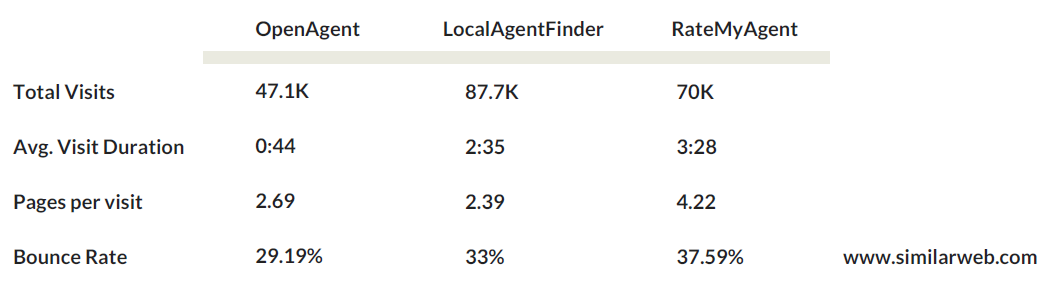
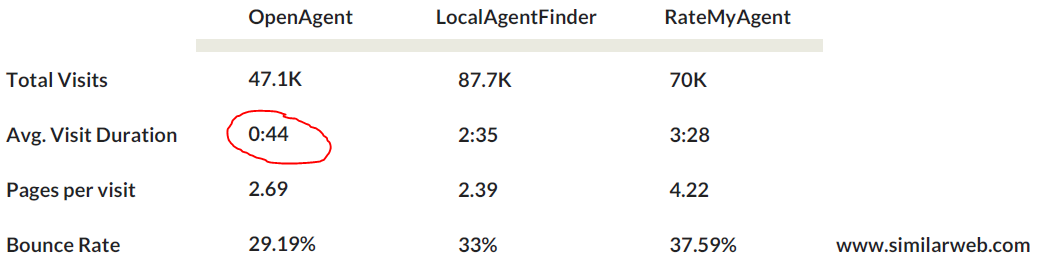
nikeipt

diff --git a/css/main.css b/css/main.css
@@ -4,7 +4,7 @@
 
 body {
   font-family: 'Cardo', 'Times New Roman', serif;
-  font-size: 18px;
+  font-size: 20px;
   color: #404040;
   position: relative;
   background: #FFF;

diff --git a/_posts/2016-08-29-open-agent-post.md b/_posts/2016-08-29-open-agent-post.md
@@ -15,11 +15,20 @@ The role was for a **product manager** with a focus on **growth** for the compan
   They provide the service for free to the end user and act as lead generators for real estate agents and their revenue model is based off the commission the agents earn from a successful sale.
 
 ## So how do we encourage growth?
-And by growth I'm assuming this to mean more users signing up and
+Where growth = more users entering their details and opting in for phone calls
+
+One little insight that came out of the competitor comparison is:
+![Competitor comparison](/post images/2016-08-29-open-agent-post/OpenAgent competitor comparison.PNG)
+
+Visitors were spending less than 1 minute on the website and it's easy to see why:
+
+##### Landing Page with prompt
+![Competitor comparison](/post images/2016-08-29-open-agent-post/Landing page.PNG)
+
+##### Input Information to get your personalised phone call
+![Competitor comparison](/post images/2016-08-29-open-agent-post/Information input.PNG)
 
 
-
-## jdfkjlkjl
 
 
 
